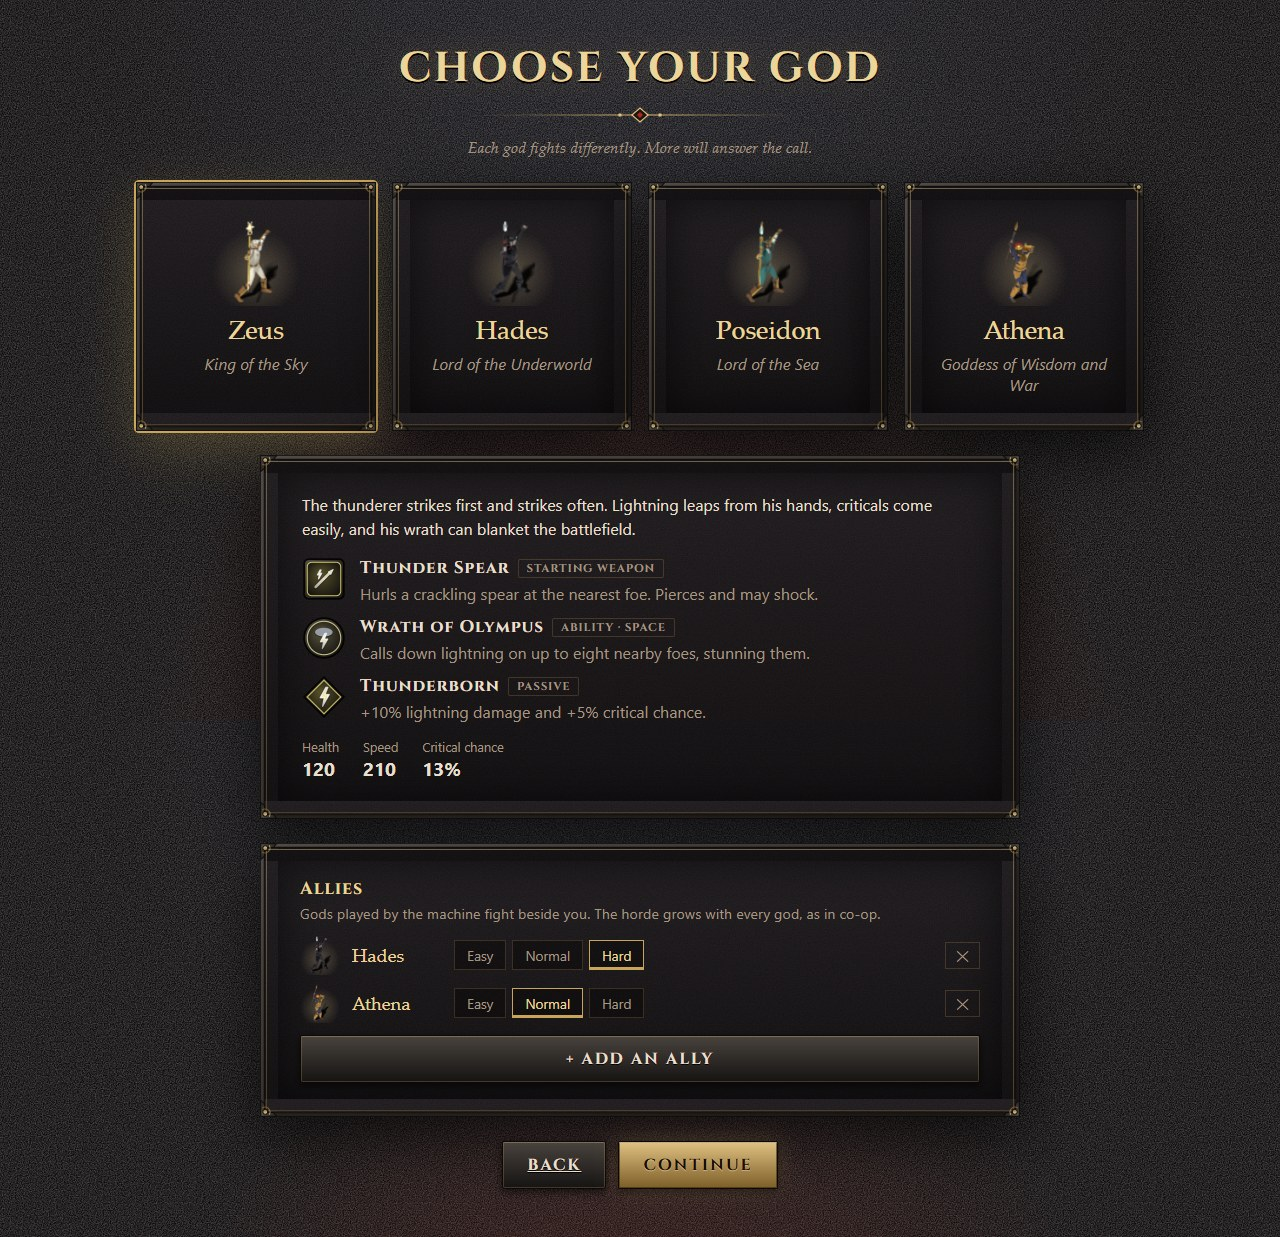
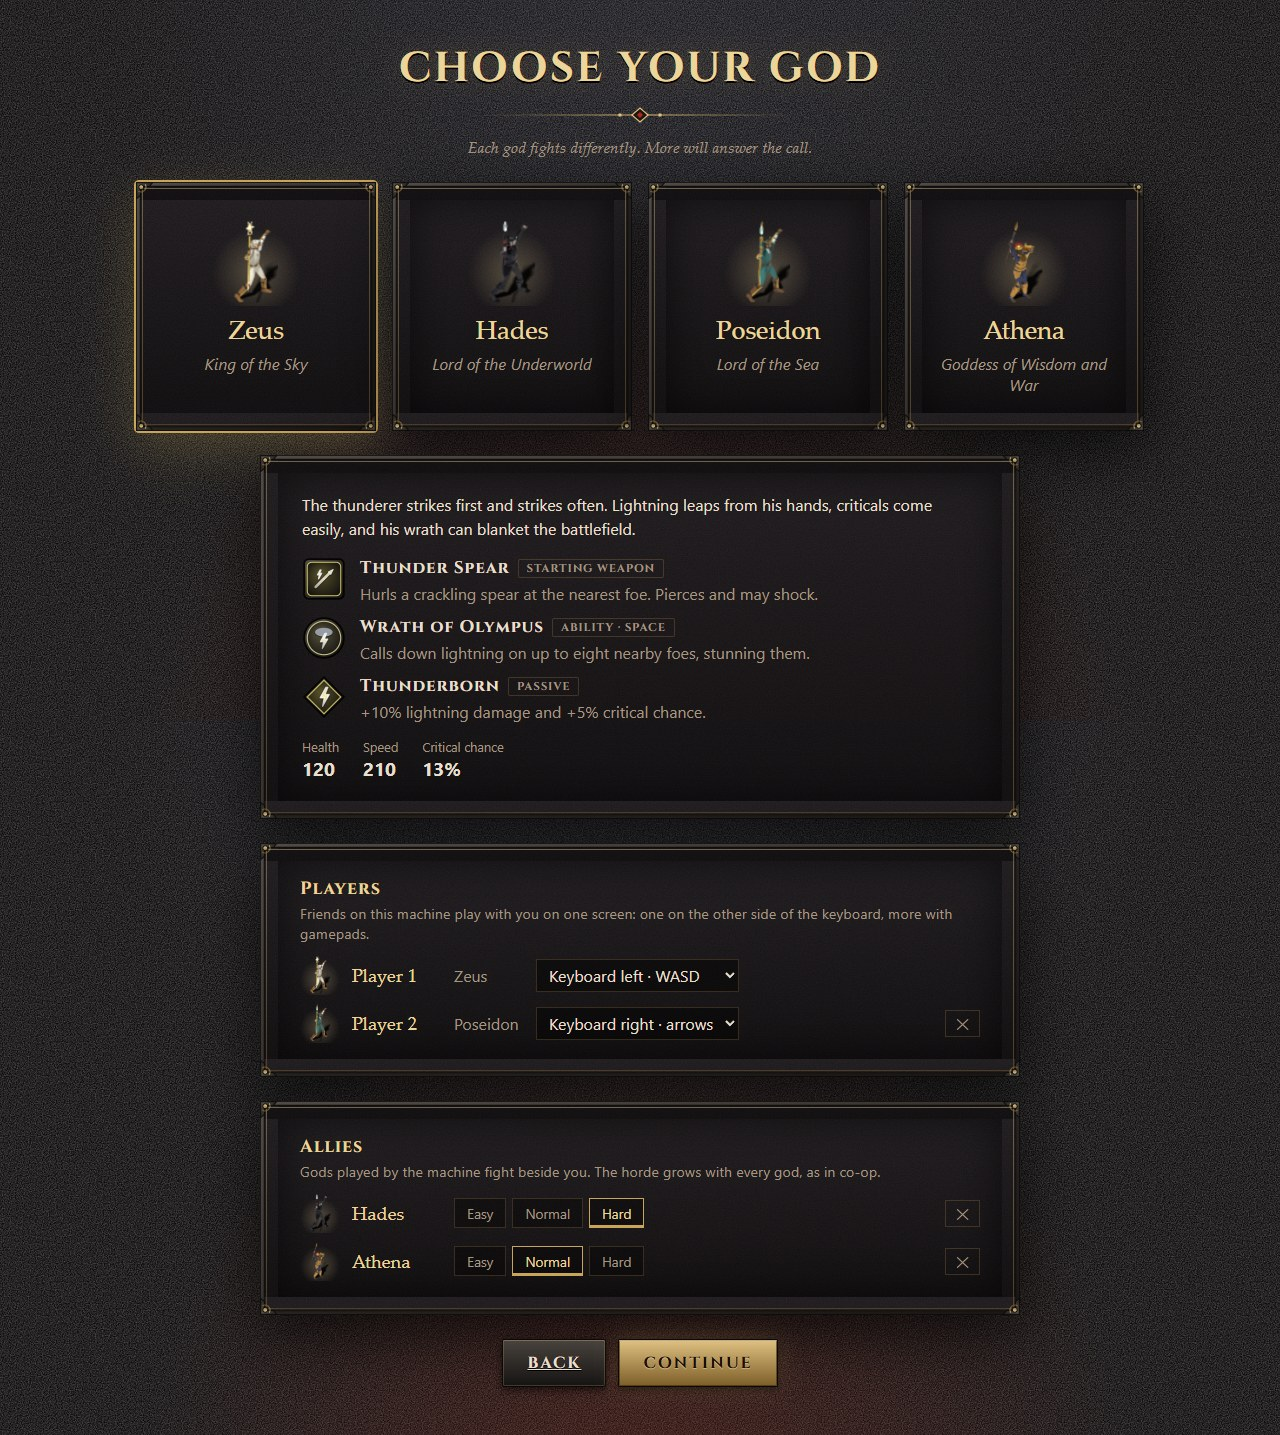
Docs and pictures for local co-op; steadier room test
README and gameplay show local co-op (together.gif, together.jpg, the
Players panel in gods.jpg), the boss signatures and the battle music.
Every picture is recaptured, so the minimap and the boss warnings are
current. The test-only local room network waits 6 s for a host to
answer instead of 1.5 s, which a busy CI runner could miss.

diff --git a/client/src/app/core/rooms/local-network.ts b/client/src/app/core/rooms/local-network.ts
@@ -2,7 +2,8 @@ import { PeerLink } from '../../../engine';
 import { RoomError, RoomListing, RoomNetwork } from './room-network';
 
 const CHANNEL = 'olympus-unbound-rooms';
-const JOIN_TIMEOUT_MS = 1500;
+/** Generous: on a busy test runner the host tab is in the background and answers late. */
+const JOIN_TIMEOUT_MS = 6000;
 
 type Envelope =
   | { kind: 'knock'; code: string; from: string }

diff --git a/README.md b/README.md
@@ -9,11 +9,13 @@ An original mythological horde-survival roguelite that runs entirely in the brow
 - **Four gods:** Zeus, Hades, Poseidon and Athena, each with a starting weapon, a divine ability, a passive and an arsenal of their own (Thunderbolt is Zeus's alone, the Soul Scythe Hades's).
 - **Sprint and dash:** a stamina bar under your health; sprint away, or dash through an attack untouched.
 - **Five realms, endless runs:** Mount Olympus, the Underworld, the Lernaean Marsh, the Aegean Shore and the Labyrinth of Crete. Each has its own map, monsters and boss: the Cyclops, Cerberus, the Hydra, Scylla and Asterion. After the Labyrinth comes Olympus again, harder.
+- **Bosses with a signature:** the Cyclops rages, Cerberus fights with three heads, the Hydra's heads must fall in order, Scylla's tentacles hold the ground and Asterion shifts the Labyrinth's walls. Every attack is telegraphed, and a dash at the last moment is a perfect dodge.
+- **Battle music:** composed in code, it grows from calm to metal as the realm's boss draws near, the horde closes in and the realms go by.
 - **Build a god:** 10 weapons, 4 armours, 6 relics, 16 skills and 7 synergies; permanent upgrades and a codex between runs.
 - **The Wandering Merchant:** twice a realm, trade the run's gold for companions (an eagle, a hound, a serpent) that fight beside you, whetstones and ambrosia.
 - **Glory:** a score for every run, solo and co-op high scores, 18 achievements and three daily quests.
 - **Co-op:** up to four players on one screen (keyboard and gamepads, one camera that zooms out to frame everyone), or in rooms peer to peer; difficulty per player; a living ally revives a fallen god by standing beside their spirit.
-- **Allies:** no friends online? Add up to three gods played by the machine (Easy, Normal or Hard) to a solo run.
+- **Allies:** not enough friends? Fill the party up to four with gods played by the machine (Easy, Normal or Hard).
 - **Night and myth:** dynamic light, fog and torchlight, and a cast rendered in Blender from licensed models (`art/blender/`).
 
 | Every realm's boss | Level up | The gate onward |
@@ -21,6 +23,8 @@ An original mythological horde-survival roguelite that runs entirely in the brow
 | ![The boss of every realm](docs/images/bosses.jpg) | ![A level-up choice](docs/images/level-up.jpg) | ![The gate to the next realm](docs/images/gate.jpg) |
 | **The Wandering Merchant** | **Companions at your side** | **The Hall of Glory** |
 | ![The merchant's shop](docs/images/shop.jpg) | ![Companions fighting beside Athena, and a dash](docs/images/merchant.gif) | ![High scores, achievements and daily quests](docs/images/glory.jpg) |
+| **Together on one screen** | **Players and allies** | **One camera for everyone** |
+| ![Two players on one keyboard walk apart and the camera zooms out](docs/images/together.gif) | ![God selection with a second player and two bot allies](docs/images/gods.jpg) | ![Two players and a bot; the party panel shows each player's stamina and ability](docs/images/together.jpg) |
 
 **Play it:** [david-letonja-ctg.github.io/Olympus-Unbound](https://david-letonja-ctg.github.io/Olympus-Unbound/), or download the game from [Releases](https://github.com/David-Letonja-CTG/Olympus-Unbound/releases)
 
@@ -36,7 +40,7 @@ npm ci
 npm start          # http://localhost:4200
 ```
 
-WASD/arrows or a gamepad to move, Shift (LB) to sprint, E (B) to dash, Space (A) for the god's divine ability, Esc (Start) to pause, 1–3 to pick upgrades.
+WASD/arrows or a gamepad to move, Shift (LB) to sprint, E (B) to dash, Space (A) for the god's divine ability, Esc (Start) to pause, 1–3 to pick upgrades. With a second player on the same keyboard, player 1 keeps WASD, Space, left Shift and E, and player 2 takes the arrows, Enter, right Shift and right Ctrl; more players use gamepads.
 
 Checks (CI runs the same on every push and pull request):
 

diff --git a/docs/gameplay.md b/docs/gameplay.md
@@ -57,6 +57,10 @@ Friends on the same machine play together on one screen. On god selection, **+ A
 
 Player 1 starts on the left of the keyboard and player 2 on the right; players 3 and 4 take gamepads. Choosing controls another player has swaps them.
 
+<img src="images/together.gif" width="100%" alt="Two players on one keyboard walk apart; the camera zooms out to keep both on screen">
+
+![Two players and a bot; the party panel shows each player's health, stamina and ability](images/together.jpg)
+
 - **One camera** frames every living god, and zooms out as you spread apart. Once it is fully out, you cannot walk further apart: stay together or someone stops at the edge of the screen.
 - **Choices in turn:** at a level-up, a treasure or the merchant, each player's choice is shown in turn, named (*Player 2 · Level 5!*). Any keyboard, mouse or gamepad may answer it.
 - **The party panel** on the left shows every player's health, stamina and whether their ability is ready; the big HUD shows player 1.
